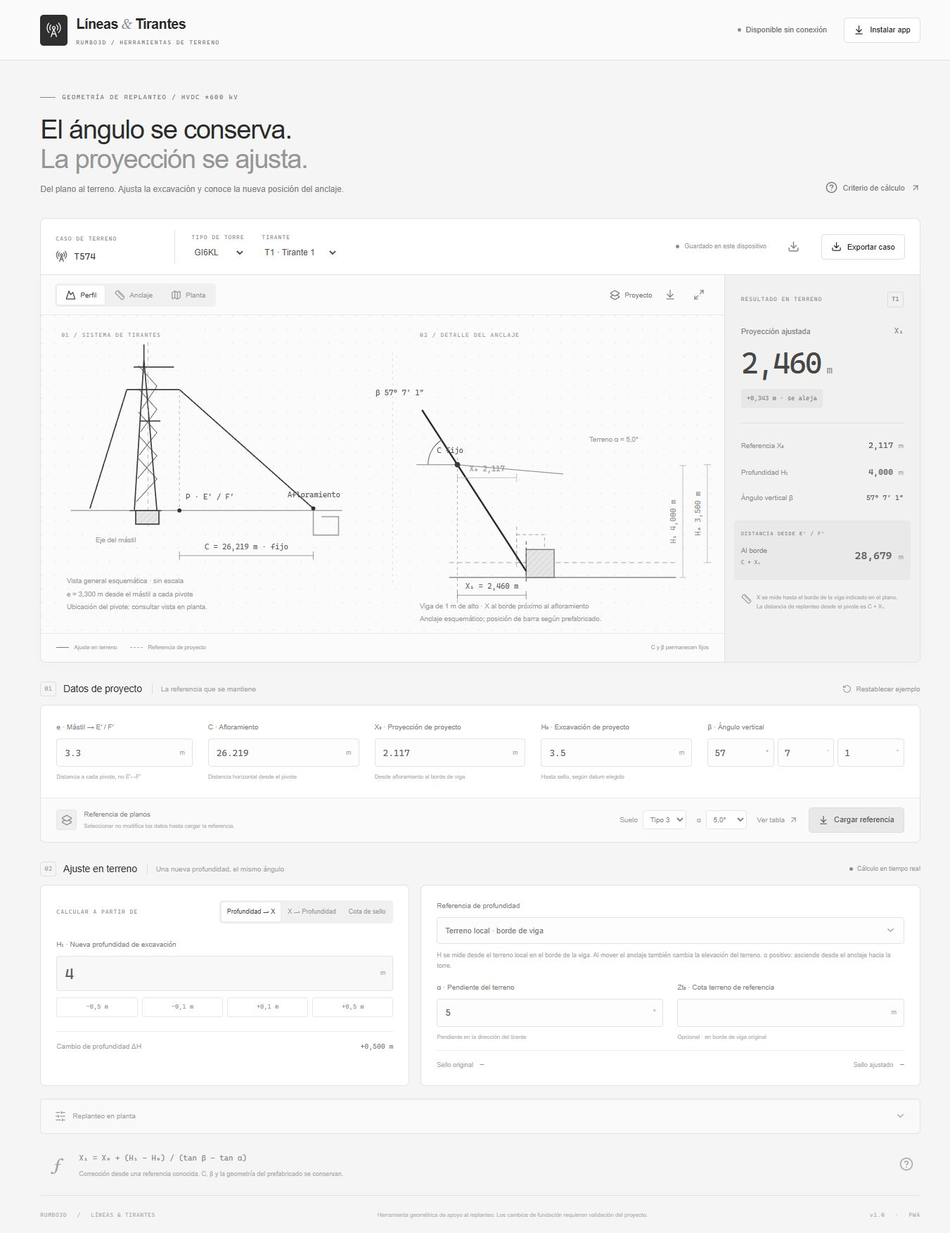
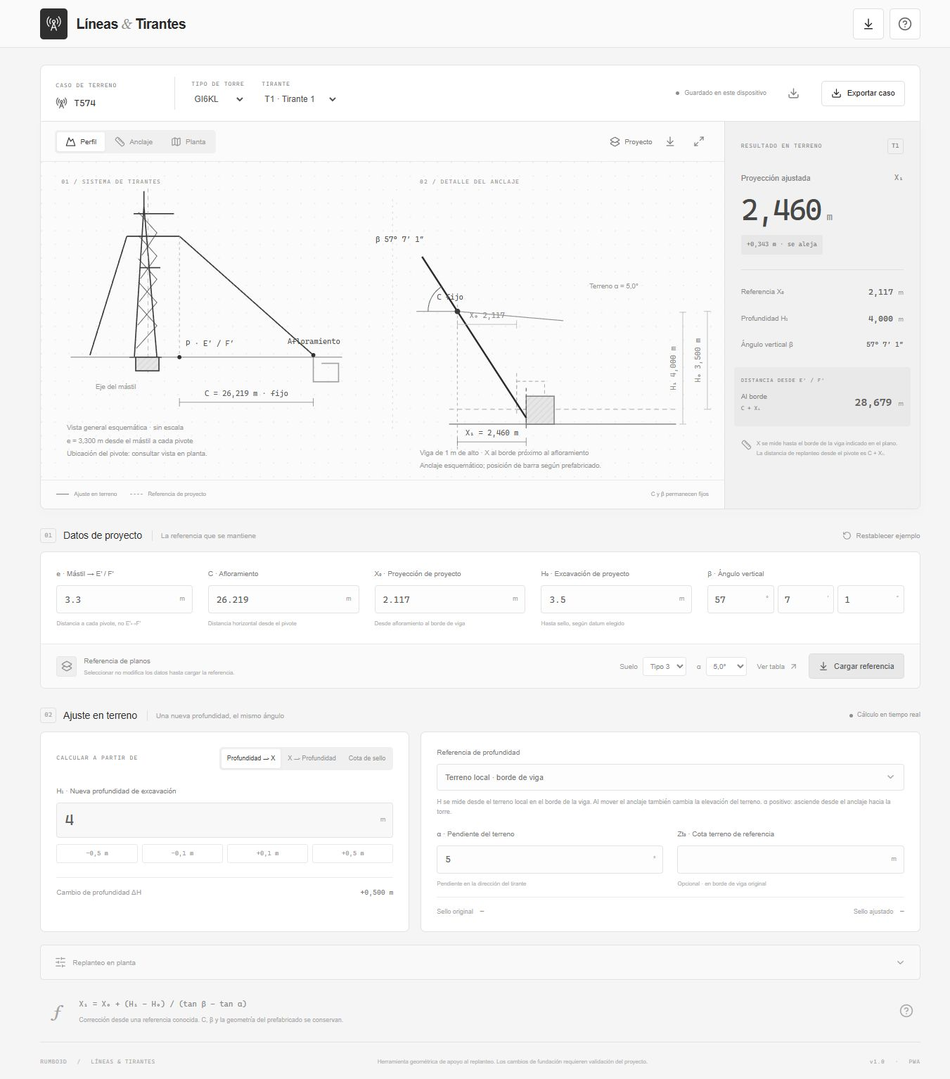
ui: simplify header and add app overview popup

diff --git a/src/app/page.tsx b/src/app/page.tsx
@@ -23,8 +23,9 @@ export default function Home() {
   const [compact,setCompact]=useState(false);
   const [ready,setReady]=useState(false), [storageError,setStorageError]=useState(false);
   const [view,setView]=useState<'profile'|'detail'|'plan'>('profile'), [showReference,setShowReference]=useState(true);
+  const [about,setAbout]=useState(false);
   const [help,setHelp]=useState(false), [table,setTable]=useState(false), [full,setFull]=useState(false);
-  const [offlineReady,setOfflineReady]=useState(false), [offline,setOffline]=useState(false), [pwaError,setPwaError]=useState(false);
+  const [offlineReady,setOfflineReady]=useState(false), [pwaError,setPwaError]=useState(false);
   const [install,setInstall]=useState<InstallEvent|null>(null), [installHelp,setInstallHelp]=useState(false);
   const [notice,setNotice]=useState(''),[referenceApplied,setReferenceApplied]=useState(false);
   const [referenceAlpha,setReferenceAlpha]=useState('5');
@@ -38,7 +39,6 @@ export default function Home() {
     const syncLayout=()=>setCompact(media.matches);syncLayout();
     if(media.matches)setView('detail');
     media.addEventListener('change',syncLayout);
-    const status=()=>setOffline(!navigator.onLine);status();window.addEventListener('online',status);window.addEventListener('offline',status);
     const onInstall=(event:Event)=>{event.preventDefault();setInstall(event as InstallEvent);};window.addEventListener('beforeinstallprompt',onInstall);
     const onInstalled=()=>{setInstall(null);setNotice('Aplicación instalada.');};window.addEventListener('appinstalled',onInstalled);
     if('serviceWorker' in navigator && process.env.NODE_ENV==='production') {
@@ -49,10 +49,10 @@ export default function Home() {
         reg.addEventListener('updatefound',()=>{const worker=reg.installing;worker?.addEventListener('statechange',()=>{if(worker.state==='installed')mark();});});
       }).catch(()=>setPwaError(true));
     }
-    return ()=>{media.removeEventListener('change',syncLayout);window.removeEventListener('online',status);window.removeEventListener('offline',status);window.removeEventListener('beforeinstallprompt',onInstall);window.removeEventListener('appinstalled',onInstalled);};
+    return ()=>{media.removeEventListener('change',syncLayout);window.removeEventListener('beforeinstallprompt',onInstall);window.removeEventListener('appinstalled',onInstalled);};
   },[]);
   useEffect(()=>{if(ready)try{localStorage.setItem(STORAGE,JSON.stringify(input));}catch{setStorageError(true);}},[input,ready]);
-  useEffect(()=>{const escape=(e:KeyboardEvent)=>{if(e.key==='Escape'){setHelp(false);setTable(false);setFull(false);setInstallHelp(false);}};window.addEventListener('keydown',escape);return()=>window.removeEventListener('keydown',escape);},[]);
+  useEffect(()=>{const escape=(e:KeyboardEvent)=>{if(e.key==='Escape'){setAbout(false);setHelp(false);setTable(false);setFull(false);setInstallHelp(false);}};window.addEventListener('keydown',escape);return()=>window.removeEventListener('keydown',escape);},[]);
   function applyReference() {
     const index=ALPHAS.findIndex(a=>a===number(referenceAlpha));
     if(index<0){setNotice('Selecciona una pendiente tabulada para cargar una referencia exacta.');return;}
@@ -79,9 +79,14 @@ export default function Home() {
     download('tirantes-'+view+'.svg',new XMLSerializer().serializeToString(copy),'image/svg+xml');
   }
   return <>
-    <header className="app-header"><a className="brand" href="/" aria-label="Líneas y Tirantes, inicio"><span className="brand-mark"><RadioTower size={23} strokeWidth={1.4}/></span><span>Líneas <span className="brand-amp">&</span> Tirantes<small>RUMBO3D / HERRAMIENTAS DE TERRENO</small></span></a><div className="header-actions"><span className={`connection ${offline?'is-offline':''}`}><span className="status-dot"/>{offline?(offlineReady?'Sin conexión · disponible':'Sin conexión'):offlineReady?'Disponible sin conexión':pwaError?'Caché no disponible':'Preparando modo de campo'}</span><button className="button light install-button" aria-label="Instalar app" onClick={async()=>{if(install){await install.prompt();await install.userChoice;setInstall(null);}else setInstallHelp(true);}}><ArrowDownToLine size={15}/><span>Instalar app</span></button></div></header>
+    <header className="app-header">
+      <a className="brand" href="/" aria-label="Líneas y Tirantes, inicio"><span className="brand-mark"><RadioTower size={23} strokeWidth={1.4}/></span><span>Líneas <span className="brand-amp">&</span> Tirantes</span></a>
+      <div className="header-actions">
+        <button className="button light install-button" aria-label="Instalar app" title="Instalar app" onClick={async()=>{if(install){await install.prompt();await install.userChoice;setInstall(null);}else setInstallHelp(true);}}><ArrowDownToLine size={18}/></button>
+        <button className="icon-button header-help" aria-label="Acerca de la app" title="Acerca de la app" onClick={()=>setAbout(true)}><CircleHelp size={20}/></button>
+      </div>
+    </header>
     <main>
-      <div className="page-heading"><div><div className="eyebrow"><span className="eyebrow-line"/>GEOMETRÍA DE REPLANTEO / HVDC ±600 kV</div><h1>El ángulo se conserva.<br/><span>La proyección se ajusta.</span></h1><p>Del plano al terreno. Ajusta la excavación y conoce la nueva posición del anclaje.</p></div><button className="help-link" onClick={()=>setHelp(true)}><CircleHelp size={17}/>Criterio de cálculo<ArrowUpRight size={14}/></button></div>
       <section className="project-bar" aria-label="Identificación del cálculo"><div className="project-label"><span className="tiny-label">CASO DE TERRENO</span><label className="project-id"><RadioTower size={17}/><input aria-label="Identificación de torre" maxLength={36} value={input.id} onChange={e=>update('id',e.target.value)}/></label></div><label className="project-select"><span className="tiny-label">TIPO DE TORRE</span><select value={input.tower} onChange={e=>update('tower',e.target.value as Tower)}><option>GI6KL</option><option>G6KL</option><option>GR6KL</option></select></label><label className="project-select"><span className="tiny-label">TIRANTE</span><select value={input.guy} onChange={e=>update('guy',e.target.value)}>{[1,2,3,4].map(n=><option key={n} value={n}>{compact?`T${n}`:`T${n} · Tirante ${n}`}</option>)}</select></label><div className="project-actions"><div className="project-spacer"/><span className="local-save"><span className="status-dot"/>{storageError?'Guardado no disponible':ready?'Guardado en este dispositivo':'Cargando sesión'}</span><button className="icon-button" title="Importar caso" aria-label="Importar caso" onClick={()=>fileRef.current?.click()}><Download size={17} className="rotate-180"/></button><input ref={fileRef} className="hidden" type="file" accept=".json,application/json" onChange={e=>importCase(e.target.files?.[0])}/><button className="button light" onClick={exportCase} disabled={!r.valid}><Download size={15}/>Exportar caso</button></div></section>
       <section className={`workspace ${full?'expanded':''}`} aria-label="Visualización y resultados">
         <div className="drawing-panel"><div className="drawing-toolbar"><div className="segmented"><button className={view==='profile'?'active':''} aria-pressed={view==='profile'} onClick={()=>setView('profile')}><Mountain size={15}/>Perfil</button><button className={view==='detail'?'active':''} aria-pressed={view==='detail'} onClick={()=>setView('detail')}><Ruler size={15}/>Anclaje</button><button className={view==='plan'?'active':''} aria-pressed={view==='plan'} onClick={()=>setView('plan')}><Map size={15}/>Planta</button></div><div className="drawing-tools"><button className={`layer-button ${showReference?'selected':''}`} onClick={()=>setShowReference(v=>!v)} aria-label="Mostrar referencia de proyecto" aria-pressed={showReference}><Layers2 size={15}/><span>Proyecto</span></button><button className="icon-button" title="Descargar dibujo SVG" aria-label="Descargar dibujo SVG" onClick={exportSvg} disabled={!r.valid}><ArrowDownToLine size={16}/></button><button className="icon-button" title={full?'Cerrar vista ampliada':'Ampliar dibujo'} aria-label={full?'Cerrar vista ampliada':'Ampliar dibujo'} onClick={()=>setFull(v=>!v)}>{full?<X size={17}/>:<Maximize2 size={16}/>}</button></div></div>
@@ -98,6 +103,6 @@ export default function Home() {
     </main>
     <div className="mobile-result-bar" aria-label="Resultado rápido"><div><span>X₁ · Proyección</span><strong>{r.valid?format(r.x1):'—'} <small>m</small></strong></div><div><span>C + X₁ · Al borde</span><strong>{r.valid?format(r.distance):'—'} <small>m</small></strong></div><a href="#ajuste-terreno" aria-label="Ir al ajuste en terreno"><SlidersHorizontal size={16}/>Ajustar</a></div>
     {notice&&<div className="toast" role="status"><span>{notice}</span><button aria-label="Cerrar aviso" onClick={()=>setNotice('')}><X size={15}/></button></div>}
-    {(help||table||installHelp)&&<div className="modal-backdrop" onClick={()=>{setHelp(false);setTable(false);setInstallHelp(false);}}><section className="modal" role="dialog" aria-modal="true" aria-labelledby="modal-title" onClick={e=>e.stopPropagation()}><button autoFocus className="modal-close icon-button" aria-label="Cerrar diálogo" onClick={()=>{setHelp(false);setTable(false);setInstallHelp(false);}}><X size={20}/></button>{help?<><div className="eyebrow">CRITERIO GEOMÉTRICO</div><h2 id="modal-title">Qué cambia. Qué se conserva.</h2><p>C fija el punto de afloramiento. β es el ángulo del tirante respecto de la horizontal. Al trasladar verticalmente la misma viga conservando β, la posición horizontal debe corregirse.</p><h3>Dos referencias para H</h3><p><strong>Cota fija:</strong> ΔX = ΔH / tan β. Una excavación mayor aumenta X; una menor la reduce. La misma cota de terreno sirve de datum en ambos casos.</p><p><strong>Terreno local:</strong> ΔX = ΔH / (tan β − tan α). El borde de la viga se desplaza hacia terreno de distinta elevación. Esta expresión usa la pendiente con el sentido dibujado en los planos. Si el terreno desciende hacia la torre, ingresa α negativo. Se supone una pendiente constante.</p><p><strong>Cota de sello:</strong> ingresa Zt₀ y la cota objetivo Zs₁. La app obtiene ΔX = (Zs₀ − Zs₁) / tan β y luego H₁ según el datum seleccionado. Esto evita confundir una variación de cota con una profundidad local.</p><h3>Por qué aparece α = 5°</h3><p>La Tabla 1 lo llama «Ángulo de terreno α». Es una fila de pendiente, distinta de β. Para GI6KL a 5°, suelo 3: H = 3,50 m y X = 2,117 m; suelo 4: H = 4,00 m y X = 2,460 m. Con el terreno inclinado, 0,50 m de cambio producen aproximadamente 0,343 m de ajuste.</p><p>Los planos no indican que deba usarse siempre 5°. La selección de esa fila en obra puede responder a la pendiente adoptada o a una instrucción específica; esa razón debe confirmarse con el diseño o la oficina técnica.</p><h3>X y el borde de la viga</h3><p>En la sección del plano, X llega a la cara de la viga próxima al afloramiento. La distancia de replanteo desde E′ o F′ es C + X₁. La planta y las coordenadas locales también usan ese borde como referencia.</p><p>No se usa X = H / tan β como valor absoluto: la viga, la inserción de la barra y la referencia de H introducen desplazamientos. Por eso se parte de X₀ y H₀ conocidos. Cambiar β o α exige una nueva referencia compatible.</p><h3>Alcance de los ejemplos</h3><p>C = 26,219 m y β = 57°07′01″ proceden de la captura del tirante 1 de T574. El plano de GI6KL expresa β = 57,117° (57°07′01,2″); cargar la tabla usa ese valor. e = 3,30 m es un ejemplo según tu indicación; los planos de fundaciones no permiten asignar 3,30/3,40 m por tipo de torre. Verifica e en el diseño correspondiente.</p><p>La captura de C4 muestra 2251,950 bajo «Distancia C4», un valor aparente de cota. No se incorporó como distancia.</p><p className="fineprint">Planos revisados: GI6KL 0005.L0026/L0027 rev. 3, G6KL 0007-L0024/L0025 rev. 3, GR6KL 0008-L0024/L0025 rev. 4. Geometría de fundación; consulta el diseño de tirantes para cada torre.</p></>:table?<><div className="eyebrow">TABLA 1 / DIMENSIONES PARA LOCALIZACIÓN</div><h2 id="modal-title">{input.tower} · Suelo tipo {input.soil}</h2><p>H = {format(cat.h,2)} m · β = {format(CATALOG[input.tower].beta)}°. Valores transcritos del plano, sin interpolación.</p><table><thead><tr><th>Terreno α</th><th>X al borde</th><th>Profundidad H</th></tr></thead><tbody>{ALPHAS.map((a,i)=><tr key={a} className={a===number(referenceAlpha)?'current-row':''}><td>{format(a,1)}°</td><td>{format(cat.x[i])} m</td><td>{format(cat.h,2)} m</td></tr>)}</tbody></table><p className="fineprint">{cat.sheet}<br/>Revisión {cat.revision}</p><button className="button primary" onClick={()=>{applyReference();setTable(false);}}>Cargar fila seleccionada</button></>:<><div className="eyebrow">MODO DE CAMPO</div><h2 id="modal-title">Lleva la app al terreno.</h2><p>En Chrome o Edge, abre el menú del navegador y elige «Instalar aplicación». En iPhone o iPad, abre en Safari, pulsa Compartir y «Añadir a pantalla de inicio».</p><p>Espera a que la cabecera indique «Disponible sin conexión» antes de salir a terreno. Esa indicación confirma que los archivos de esta versión están guardados.</p><p>Los cálculos, tablas y dibujos funcionan localmente. La última sesión se guarda en este dispositivo. Exporta un caso JSON para conservar una copia o moverlo a otro equipo.</p><div className="install-state"><WifiOff size={19}/>{offlineReady?'Esta versión ya está disponible sin conexión.':pwaError?'No se pudo preparar la caché. Vuelve a abrir la app con conexión.':'El modo sin conexión se prepara en la versión de producción servida por HTTPS o localhost.'}</div></>}</section></div>}
+    {(about||help||table||installHelp)&&<div className="modal-backdrop" onClick={()=>{setAbout(false);setHelp(false);setTable(false);setInstallHelp(false);}}><section className="modal" role="dialog" aria-modal="true" aria-labelledby="modal-title" onClick={e=>e.stopPropagation()}><button autoFocus className="modal-close icon-button" aria-label="Cerrar diálogo" onClick={()=>{setAbout(false);setHelp(false);setTable(false);setInstallHelp(false);}}><X size={20}/></button>{about?<><h2 id="modal-title">Líneas &amp; Tirantes</h2><p>Una herramienta de apoyo al replanteo de tirantes de torres atirantadas. Calcula cómo cambia la proyección horizontal al modificar la excavación, manteniendo fijos el afloramiento C y el ángulo vertical β.</p><h3>Cómo funciona</h3><ol className="about-steps"><li>Ingresa las distancias de proyecto y β en grados, minutos y segundos, o carga una referencia de los planos.</li><li>Indica la nueva profundidad, la proyección X₁ o la cota de sello.</li><li>Consulta el esquema y la distancia <strong>C + X₁</strong> desde E′ / F′ hasta el borde de la viga.</li></ol><p>Puedes guardar y exportar casos e instalar la app para trabajar sin conexión después de descargarla.</p><div className="install-state"><WifiOff size={19}/>{offlineReady?'Disponible sin conexión. Esta versión ya está guardada.':pwaError?'No se pudo preparar la descarga. Abre la app con conexión e inténtalo de nuevo.':'Preparando los archivos para usar sin conexión.'}</div><button className="text-button about-details" onClick={()=>{setAbout(false);setHelp(true);}}>Ver fórmulas y referencias<ArrowUpRight size={14}/></button></>:help?<><div className="eyebrow">CRITERIO GEOMÉTRICO</div><h2 id="modal-title">Qué cambia. Qué se conserva.</h2><p>C fija el punto de afloramiento. β es el ángulo del tirante respecto de la horizontal. Al trasladar verticalmente la misma viga conservando β, la posición horizontal debe corregirse.</p><h3>Dos referencias para H</h3><p><strong>Cota fija:</strong> ΔX = ΔH / tan β. Una excavación mayor aumenta X; una menor la reduce. La misma cota de terreno sirve de datum en ambos casos.</p><p><strong>Terreno local:</strong> ΔX = ΔH / (tan β − tan α). El borde de la viga se desplaza hacia terreno de distinta elevación. Esta expresión usa la pendiente con el sentido dibujado en los planos. Si el terreno desciende hacia la torre, ingresa α negativo. Se supone una pendiente constante.</p><p><strong>Cota de sello:</strong> ingresa Zt₀ y la cota objetivo Zs₁. La app obtiene ΔX = (Zs₀ − Zs₁) / tan β y luego H₁ según el datum seleccionado. Esto evita confundir una variación de cota con una profundidad local.</p><h3>Por qué aparece α = 5°</h3><p>La Tabla 1 lo llama «Ángulo de terreno α». Es una fila de pendiente, distinta de β. Para GI6KL a 5°, suelo 3: H = 3,50 m y X = 2,117 m; suelo 4: H = 4,00 m y X = 2,460 m. Con el terreno inclinado, 0,50 m de cambio producen aproximadamente 0,343 m de ajuste.</p><p>Los planos no indican que deba usarse siempre 5°. La selección de esa fila en obra puede responder a la pendiente adoptada o a una instrucción específica; esa razón debe confirmarse con el diseño o la oficina técnica.</p><h3>X y el borde de la viga</h3><p>En la sección del plano, X llega a la cara de la viga próxima al afloramiento. La distancia de replanteo desde E′ o F′ es C + X₁. La planta y las coordenadas locales también usan ese borde como referencia.</p><p>No se usa X = H / tan β como valor absoluto: la viga, la inserción de la barra y la referencia de H introducen desplazamientos. Por eso se parte de X₀ y H₀ conocidos. Cambiar β o α exige una nueva referencia compatible.</p><h3>Alcance de los ejemplos</h3><p>C = 26,219 m y β = 57°07′01″ proceden de la captura del tirante 1 de T574. El plano de GI6KL expresa β = 57,117° (57°07′01,2″); cargar la tabla usa ese valor. e = 3,30 m es un ejemplo según tu indicación; los planos de fundaciones no permiten asignar 3,30/3,40 m por tipo de torre. Verifica e en el diseño correspondiente.</p><p>La captura de C4 muestra 2251,950 bajo «Distancia C4», un valor aparente de cota. No se incorporó como distancia.</p><p className="fineprint">Planos revisados: GI6KL 0005.L0026/L0027 rev. 3, G6KL 0007-L0024/L0025 rev. 3, GR6KL 0008-L0024/L0025 rev. 4. Geometría de fundación; consulta el diseño de tirantes para cada torre.</p></>:table?<><div className="eyebrow">TABLA 1 / DIMENSIONES PARA LOCALIZACIÓN</div><h2 id="modal-title">{input.tower} · Suelo tipo {input.soil}</h2><p>H = {format(cat.h,2)} m · β = {format(CATALOG[input.tower].beta)}°. Valores transcritos del plano, sin interpolación.</p><table><thead><tr><th>Terreno α</th><th>X al borde</th><th>Profundidad H</th></tr></thead><tbody>{ALPHAS.map((a,i)=><tr key={a} className={a===number(referenceAlpha)?'current-row':''}><td>{format(a,1)}°</td><td>{format(cat.x[i])} m</td><td>{format(cat.h,2)} m</td></tr>)}</tbody></table><p className="fineprint">{cat.sheet}<br/>Revisión {cat.revision}</p><button className="button primary" onClick={()=>{applyReference();setTable(false);}}>Cargar fila seleccionada</button></>:<><div className="eyebrow">MODO DE CAMPO</div><h2 id="modal-title">Lleva la app al terreno.</h2><p>En Chrome o Edge, abre el menú del navegador y elige «Instalar aplicación». En iPhone o iPad, abre en Safari, pulsa Compartir y «Añadir a pantalla de inicio».</p><p>Antes de salir a terreno, consulta el estado de descarga en la ayuda (?). «Disponible sin conexión» confirma que los archivos de esta versión están guardados.</p><p>Los cálculos, tablas y dibujos funcionan localmente. La última sesión se guarda en este dispositivo. Exporta un caso JSON para conservar una copia o moverlo a otro equipo.</p><div className="install-state"><WifiOff size={19}/>{offlineReady?'Esta versión ya está disponible sin conexión.':pwaError?'No se pudo preparar la caché. Vuelve a abrir la app con conexión.':'El modo sin conexión se prepara en la versión de producción servida por HTTPS o localhost.'}</div></>}</section></div>}
   </>;
 }

diff --git a/src/app/globals.css b/src/app/globals.css
@@ -2,8 +2,8 @@
 
 :root{--bg:#f5f5f5;--paper:#ffffff;--ink:#2b2b2b;--muted:#858585;--border:#e2e2e2;--olive:#6f6f6f;--soft:#ebebeb;--mono:'Cascadia Code','SFMono-Regular',Consolas,monospace}
 *{box-sizing:border-box}body{margin:0;background:var(--bg);color:var(--ink);font-family:Arial,Helvetica,sans-serif;font-size:14px;-webkit-font-smoothing:antialiased}button,input,select{font:inherit}button,a,input,select,summary{-webkit-tap-highlight-color:transparent}button,select,summary{cursor:pointer}button{transition:background .15s,color .15s}button:disabled{opacity:.4;cursor:not-allowed}button:focus-visible,a:focus-visible,summary:focus-visible{outline:2px solid #838383;outline-offset:4px}input:focus,select:focus{outline:2px solid #a8a8a8;outline-offset:2px}a{color:inherit;text-decoration:none}button{border:0;background:none;color:inherit}svg{flex-shrink:0}.hidden{display:none}.rotate-180{transform:rotate(180deg)}
-.app-header{height:86px;border-bottom:1px solid var(--border);display:flex;align-items:center;justify-content:space-between;padding:0 4.2%;background:#fafafa}.brand{display:flex;align-items:center;gap:12px;font-size:20px;font-weight:600;letter-spacing:-.6px}.brand-mark{width:39px;height:44px;display:grid;place-items:center;background:#2f2f2f;color:#f6f6f6;border-radius:5px}.brand-amp{font-family:Georgia,serif;color:#8f8f8f;font-style:italic;font-weight:400}.brand small{display:block;font-family:var(--mono);font-size:8px;font-weight:400;letter-spacing:1.5px;margin-top:6px;color:#747474}.header-actions{display:flex;align-items:center;gap:24px}.connection{display:flex;align-items:center;gap:7px;font-size:11px;color:#6f6f6f}.status-dot{display:inline-block;width:5px;height:5px;border-radius:50%;background:#8c8c8c}.is-offline{color:#6f6f6f}.button{display:inline-flex;align-items:center;justify-content:center;gap:8px;min-height:36px;padding:8px 13px;border-radius:5px;font-size:11px;white-space:nowrap;font-weight:500}.button.light{border:1px solid #dfdfdf;background:#ffffff}.button.light:hover{background:#f2f2f2}.button.secondary{background:#e8e8e8;color:#565656;border:1px solid #dcdcdc}.button.secondary:hover{background:#e2e2e2}.button.primary{background:#363636;color:white}.icon-button{display:inline-flex;align-items:center;justify-content:center;width:32px;height:32px;border-radius:4px;color:#828282}.icon-button:hover{background:#efefef;color:#2f2f2f}
-main{max-width:1500px;padding:46px 4.2% 0;margin:auto}.page-heading{display:flex;justify-content:space-between;align-items:flex-end;margin-bottom:31px}.eyebrow{display:flex;align-items:center;gap:9px;font-family:var(--mono);font-size:9px;letter-spacing:1.5px;color:#757575}.eyebrow-line{width:22px;height:1px;background:#868686}h1{font-size:clamp(29px,2.8vw,40px);line-height:1.12;letter-spacing:-1.35px;font-weight:500;margin:17px 0 12px}h1 span{color:#969696}.page-heading p{color:#818181;font-size:12px;line-height:1.6;margin:0}.help-link{display:flex;align-items:center;gap:8px;color:#787878;font-size:11px;padding-bottom:4px}.help-link:hover{color:#363636}.project-bar{display:flex;align-items:center;gap:23px;min-height:80px;border:1px solid var(--border);border-bottom:0;border-radius:8px 8px 0 0;background:#ffffff;padding:14px 21px}.tiny-label{font-family:var(--mono);font-size:8px;letter-spacing:1.1px;color:#8f8f8f}.project-label{width:170px;border-right:1px solid var(--border)}.project-id{display:flex;align-items:center;gap:9px;margin-top:7px;color:#6d6d6d}.project-id input{width:130px;border:0;color:#373737;font-family:var(--mono);font-size:13px;outline-offset:1px}.project-select{display:flex;flex-direction:column;gap:5px}.project-select select{border:0;background:transparent;padding:0 17px 0 0;color:#535353;font-size:12px;min-height:20px}.project-spacer{flex:1}.local-save{display:flex;align-items:center;gap:7px;font-size:9px;color:#9a9a9a;white-space:nowrap}
+.app-header{height:68px;border-bottom:1px solid var(--border);display:flex;align-items:center;justify-content:space-between;padding:0 4.2%;background:#fafafa}.brand{display:flex;align-items:center;gap:12px;font-size:20px;font-weight:600;letter-spacing:-.6px}.brand-mark{width:39px;height:44px;display:grid;place-items:center;background:#2f2f2f;color:#f6f6f6;border-radius:5px}.brand-amp{font-family:Georgia,serif;color:#8f8f8f;font-style:italic;font-weight:400}.brand small{display:block;font-family:var(--mono);font-size:8px;font-weight:400;letter-spacing:1.5px;margin-top:6px;color:#747474}.header-actions{display:flex;align-items:center;gap:8px}.connection{display:flex;align-items:center;gap:7px;font-size:11px;color:#6f6f6f}.status-dot{display:inline-block;width:5px;height:5px;border-radius:50%;background:#8c8c8c}.is-offline{color:#6f6f6f}.button{display:inline-flex;align-items:center;justify-content:center;gap:8px;min-height:36px;padding:8px 13px;border-radius:5px;font-size:11px;white-space:nowrap;font-weight:500}.button.light{border:1px solid #dfdfdf;background:#ffffff}.button.light:hover{background:#f2f2f2}.button.secondary{background:#e8e8e8;color:#565656;border:1px solid #dcdcdc}.button.secondary:hover{background:#e2e2e2}.button.primary{background:#363636;color:white}.icon-button{display:inline-flex;align-items:center;justify-content:center;width:32px;height:32px;border-radius:4px;color:#828282}.icon-button:hover{background:#efefef;color:#2f2f2f}
+main{max-width:1500px;padding:24px 4.2% 0;margin:auto}.page-heading{display:flex;justify-content:space-between;align-items:flex-end;margin-bottom:31px}.eyebrow{display:flex;align-items:center;gap:9px;font-family:var(--mono);font-size:9px;letter-spacing:1.5px;color:#757575}.eyebrow-line{width:22px;height:1px;background:#868686}h1{font-size:clamp(29px,2.8vw,40px);line-height:1.12;letter-spacing:-1.35px;font-weight:500;margin:17px 0 12px}h1 span{color:#969696}.page-heading p{color:#818181;font-size:12px;line-height:1.6;margin:0}.help-link{display:flex;align-items:center;gap:8px;color:#787878;font-size:11px;padding-bottom:4px}.help-link:hover{color:#363636}.project-bar{display:flex;align-items:center;gap:23px;min-height:80px;border:1px solid var(--border);border-bottom:0;border-radius:8px 8px 0 0;background:#ffffff;padding:14px 21px}.tiny-label{font-family:var(--mono);font-size:8px;letter-spacing:1.1px;color:#8f8f8f}.project-label{width:170px;border-right:1px solid var(--border)}.project-id{display:flex;align-items:center;gap:9px;margin-top:7px;color:#6d6d6d}.project-id input{width:130px;border:0;color:#373737;font-family:var(--mono);font-size:13px;outline-offset:1px}.project-select{display:flex;flex-direction:column;gap:5px}.project-select select{border:0;background:transparent;padding:0 17px 0 0;color:#535353;font-size:12px;min-height:20px}.project-spacer{flex:1}.local-save{display:flex;align-items:center;gap:7px;font-size:9px;color:#9a9a9a;white-space:nowrap}
 .workspace{display:grid;grid-template-columns:minmax(0,1fr) 278px;min-height:440px;border:1px solid var(--border);background:#fbfbfb;border-radius:0 0 8px 8px;overflow:hidden;box-shadow:0 5px 14px #49494904}.drawing-panel{min-width:0;display:flex;flex-direction:column}.drawing-toolbar{height:57px;padding:13px 20px;display:flex;justify-content:space-between;align-items:center;border-bottom:1px solid #e9e9e9;background:#fbfbfb}.segmented{display:inline-flex;background:#f0f0f0;padding:3px;border-radius:5px;gap:2px}.segmented button{display:inline-flex;gap:6px;align-items:center;justify-content:center;min-height:27px;padding:5px 12px;font-size:10px;color:#969696;border-radius:3px;white-space:nowrap}.segmented button.active{color:#404040;background:#ffffff;box-shadow:0 1px 4px #40404010}.drawing-tools{display:flex;align-items:center;gap:9px}.layer-button{display:flex;align-items:center;gap:6px;color:#a9a9a9;font-size:10px}.layer-button.selected{color:#787878}.diagram-canvas{flex:1;min-height:290px;display:grid;align-items:center;overflow:hidden}.technical-svg{width:100%;height:auto;display:block}.technical-svg text{font-family:var(--mono);fill:#575757;font-size:11px}.technical-svg .svg-kicker{font-size:8px;letter-spacing:1.4px;fill:#a0a0a0}.technical-svg .svg-muted{font-family:Arial,sans-serif;font-size:10px;fill:#989898}.technical-svg .svg-label{font-size:11px}.dimension{fill:none;stroke:#b0b0b0;stroke-width:.8}.dimension text{stroke:none;fill:#919191;font-size:11px}.dimension.strong text{fill:#5c5c5c}.dimension.strong{stroke:#7e7e7e}.ref-foundation{fill:none;stroke:#b3b3b3;stroke-dasharray:5 4}.foundation{stroke:#616161}.selected-guy{stroke:#5d5d5d;fill:#5d5d5d}.other-guy{stroke:#b7b7b7;fill:#b7b7b7}.drawing-caption{display:flex;align-items:center;justify-content:space-between;gap:14px;padding:14px 22px;border-top:1px solid #e9e9e9;font-size:8px;color:#979797}.drawing-caption>div{display:flex;align-items:center;gap:7px;white-space:nowrap}.legend-line{width:18px;height:1px;background:#7b7b7b;display:inline-block}.legend-line.dashed{height:0;border-top:1px dashed #acacac;background:none;margin-left:12px}.invalid-drawing{text-align:center;color:#9a9a9a;padding:80px 20px}.invalid-drawing svg{margin:auto}.expanded{position:fixed;inset:20px;z-index:40;box-shadow:0 0 0 30px #262626e0;grid-template-columns:minmax(0,1fr) 278px}.expanded .diagram-canvas svg{max-height:calc(100dvh - 180px)}
 .results{background:#f1f1f1;border-left:1px solid #e0e0e0;padding:24px 23px 17px;display:flex;flex-direction:column}.results-kicker{display:flex;justify-content:space-between;align-items:center;margin-bottom:26px}.result-tag{font-family:var(--mono);color:#818181;border:1px solid #dcdcdc;border-radius:3px;padding:3px 5px;font-size:9px}.result-label{font-size:11px;color:#848484;display:flex;justify-content:space-between}.result-label>span{font-family:var(--mono);font-size:11px}.hero-result{font-family:var(--mono);font-size:43px;line-height:1.15;letter-spacing:-2.5px;color:#474747;margin:13px 0 11px}.hero-result>span{font-size:15px;margin-left:8px;letter-spacing:0;color:#939393}.delta-pill{font-family:var(--mono);font-size:9px;padding:7px 8px;background:#e7e7e7;color:#7c7c7c;border-radius:3px;align-self:flex-start}.result-divider{border-top:1px solid #e0e0e0;margin:21px 0 12px}.result-row{display:flex;align-items:center;justify-content:space-between;gap:8px;margin:10px 0;font-size:10px;color:#8e8e8e}.result-row strong{font-family:var(--mono);font-size:12px;font-weight:500;color:#656565;white-space:nowrap}.result-row strong small{font-family:Arial,sans-serif;font-size:9px;color:#9a9a9a}.result-row .angle-result{font-size:10px}.stakeout{margin:15px -10px 8px;padding:14px 10px 9px;background:#e9e9e9;border-radius:4px}.stakeout .tiny-label{font-size:7px;color:#868686}.stakeout .result-row{color:#848484}.result-row>span small{display:block;margin-top:4px;font-family:var(--mono);font-size:8px}.stakeout .result-row strong{font-size:15px;color:#606060}.result-note{display:flex;align-items:flex-start;gap:7px;font-size:8px;line-height:1.65;color:#9f9f9f;margin:10px 0 0}.result-note svg{margin-top:1px}
 .data-section{margin-top:27px}.section-heading{display:flex;justify-content:space-between;align-items:center;margin-bottom:12px;gap:10px}.section-heading>div{display:flex;align-items:center;gap:10px}.section-number{font-family:var(--mono);font-size:9px;color:#a4a4a4;border:1px solid #dfdfdf;border-radius:4px;padding:3px 5px}h2{font-size:14px;font-weight:500;margin:0;letter-spacing:-.1px}.section-subtitle{font-size:10px;color:#a4a4a4;border-left:1px solid #dedede;padding-left:12px;margin-left:4px}.text-button{font-size:10px;color:#999999;display:flex;align-items:center;gap:6px;white-space:nowrap}.text-button:hover{color:#5f5f5f}.data-card,.adjust-card,.datum-card{background:#ffffff;border:1px solid var(--border);border-radius:7px}.fields-grid{display:grid;grid-template-columns:.9fr 1fr 1fr 1fr 1.3fr;gap:22px;padding:23px 22px}.field{display:flex;flex-direction:column;gap:9px;min-width:0}.field-label{font-size:10px;color:#808080;display:block}.input-wrap{display:flex;align-items:center;min-width:0;position:relative;border:1px solid #e3e3e3;border-radius:4px;background:#fdfdfd;overflow:visible}.input-wrap input{min-width:0;width:100%;height:38px;padding:8px 30px 8px 11px;background:transparent;border:0;border-radius:4px;font-family:var(--mono);font-size:13px;color:#606060}.input-wrap>span{position:absolute;right:10px;font-size:9px;color:#a8a8a8;pointer-events:none}.field-hint{font-size:8px;line-height:1.4;color:#ababab}.angle-field{margin:0;padding:0;border:0;min-width:0}.angle-field legend{margin-bottom:9px}.dms-grid{display:grid;grid-template-columns:1fr .85fr 1fr;gap:5px}.dms-grid .input-wrap input{padding-right:19px;padding-left:9px}.dms-grid .input-wrap>span{right:7px}.reference-strip{display:flex;align-items:center;gap:15px;background:#fafafa;border-top:1px solid #eaeaea;padding:13px 22px;border-radius:0 0 7px 7px}.reference-strip>div{display:flex;align-items:center;gap:10px;margin-right:auto}.reference-icon{width:29px;height:29px;display:grid;place-items:center;background:#efefef;border:1px solid #e6e6e6;border-radius:4px;color:#8e8e8e}.reference-strip strong{font-weight:400;font-size:10px;color:#888888;display:block}.reference-strip small{display:block;font-size:8px;color:#ababab;margin-top:4px}.reference-strip>label{font-size:10px;color:#9b9b9b;display:flex;align-items:center;gap:7px}.reference-strip select{font-size:10px;color:#858585;padding:6px;border:1px solid #e5e5e5;border-radius:4px;background:#ffffff}.live-label{font-size:9px;display:flex;align-items:center;gap:6px;color:#9b9b9b}.adjust-grid{display:grid;grid-template-columns:.85fr 1.15fr;gap:16px}.adjust-card{padding:21px 22px}.adjust-mode{display:flex;align-items:center;justify-content:space-between;gap:10px;margin-bottom:22px}.adjust-mode .segmented button{font-size:9px;padding:5px 8px}.adjust-card .field .input-wrap input{height:48px;font-size:22px}.adjust-card .field .input-wrap{background:#f8f8f8}.depth-controls{display:flex;gap:6px;margin-top:9px}.depth-controls button{font-family:var(--mono);font-size:9px;color:#999999;border:1px solid #e8e8e8;border-radius:3px;padding:6px 9px;flex:1}.depth-controls button:hover{background:#ededed;color:#696969}.adjust-output{border-top:1px solid #ebebeb;margin-top:20px;padding-top:13px;display:flex;justify-content:space-between;font-size:10px;color:#9d9d9d}.adjust-output strong{font-family:var(--mono);font-weight:400;color:#7d7d7d}.datum-card{padding:21px 22px}.select-wrap{position:relative;margin-top:9px}.select-wrap select{width:100%;appearance:none;background:#fdfdfd;border:1px solid #e3e3e3;border-radius:4px;height:38px;padding:8px 30px 8px 11px;font-size:11px;color:#797979}.select-wrap svg{position:absolute;right:12px;top:11px;pointer-events:none;color:#9e9e9e}.datum-help{font-size:9px;color:#a9a9a9;line-height:1.6;margin:9px 0 16px}.two-fields{display:grid;grid-template-columns:1fr 1fr;gap:20px}.seal-results{display:flex;justify-content:space-between;border-top:1px solid #ebebeb;margin-top:13px;padding-top:12px;gap:15px;font-size:9px;color:#a9a9a9}.seal-results strong{color:#8b8b8b;font-family:var(--mono);font-size:10px;font-weight:400;margin-left:7px}
@@ -23,12 +23,11 @@ button,a,select,summary{touch-action:manipulation}
 /* Field use on phones and tablets: readable type, 44 px targets, no horizontal canvas panning. */
 @media(max-width:800px){
   body{padding-bottom:calc(86px + env(safe-area-inset-bottom,0px))}
-  .app-header{height:auto;min-height:72px;padding:calc(10px + env(safe-area-inset-top,0px)) max(16px,env(safe-area-inset-right,0px)) 10px max(16px,env(safe-area-inset-left,0px));gap:12px}
+  .app-header{height:auto;min-height:64px;padding:calc(10px + env(safe-area-inset-top,0px)) max(16px,env(safe-area-inset-right,0px)) 10px max(16px,env(safe-area-inset-left,0px));gap:12px}
   .brand{font-size:17px;gap:8px;letter-spacing:-.5px;min-height:44px;flex-shrink:0}
   .brand>span:last-child{white-space:nowrap}
   .brand-mark{width:34px;height:40px}
   .brand small{display:none}
-  .brand>span:last-child::after{content:"RUMBO3D · TERRENO";display:block;font-family:var(--mono);font-weight:400;font-size:8px;letter-spacing:1px;line-height:1.4;color:#737373;margin-top:4px}
   .header-actions{gap:8px}
   .connection{font-size:10px;line-height:1.5;max-width:96px}
   .install-button{width:44px;min-width:44px;flex-shrink:0;min-height:44px;padding:10px}
@@ -228,3 +227,10 @@ button,a,select,summary{touch-action:manipulation}
   .app-header,.page-heading,.data-section,.advanced,.formula-band,.toast,.modal-backdrop,.drawing-tools,.header-actions,.project-bar button,.mobile-result-bar{display:none}
   main{padding:0;max-width:none}.workspace{grid-template-columns:1fr 240px}.diagram-canvas{overflow:visible}.technical-svg{min-width:0}.results{display:flex}.project-bar{border-bottom:1px solid #ddd}
 }
+
+.install-button,.header-help{width:44px;min-width:44px;height:44px;min-height:44px;padding:10px;flex-shrink:0}
+.header-help{border:1px solid #dfdfdf;background:#fff;color:#666;border-radius:5px}
+.about-steps{list-style:decimal;padding-left:22px;margin:12px 0 20px;font-size:13px;line-height:1.8;color:#6b6b6b}
+.about-steps li+li{margin-top:9px}
+.about-details{margin-top:14px;min-height:44px;font-size:12px;color:#555;justify-content:flex-start}
+@media(max-width:800px){.about-steps{font-size:14px;line-height:1.8}.header-actions{gap:6px}}

diff --git a/docs/VALIDACION.md b/docs/VALIDACION.md
@@ -10,6 +10,7 @@ Comprobado en el entorno local del proyecto:
 - Diseño prioritario para smartphone: verificado en anchos de 360, 393 y 430 px; revisión adicional en 768 px y laptop de 1366 px. Sin desbordamiento horizontal de la página o del dibujo.
 - Controles móviles de al menos 44 × 44 px, campos de 16 px o más, anclaje adaptado al ancho y barra inferior con X₁ / C + X₁.
 - Acceso «Ajustar» y botones de profundidad comprobados: el resultado principal y la barra inferior se actualizan juntos.
+- Cabecera reducida a icono, nombre, instalar y ayuda. Resumen emergente de la app comprobado en móvil; el estado offline se consulta dentro de la ayuda.
 - Prueba offline real del paquete: servidor HTTP detenido, fallo de conexión confirmado desde fuera del navegador, recarga correcta desde service worker y cálculo de profundidad → X / X → profundidad sin servidor.
 - Entrada por cota de sello: Zt₀ = 100 m, Zs₁ = 96 m devuelve X₁ = 2,440 m, H₁ local = 3,972 m y H₁ con datum fijo = 4,000 m.
 - En el ejemplo, H₁ = 3,50 m devuelve X₁ = 2,117 m. La operación inversa con X₁ redondeada a 2,460 m devuelve H₁ = 4,001 m; la diferencia milimétrica es consecuencia del redondeo de la referencia.

diff --git a/README.md b/README.md
@@ -77,7 +77,7 @@ La interfaz prioriza smartphones: anclaje adaptado al ancho de pantalla, botones
 Perfil, anclaje y planta caben en el ancho móvil. La planta muestra sus coordenadas en casillas legibles debajo del dibujo. En laptop se conserva el dibujo con resultados laterales. Los cálculos continúan usando exclusivamente el borde de la viga.
 
 1. Abrir la app con conexión desde **el dominio que se usará en campo**.
-2. Esperar la indicación **Disponible sin conexión**. Se muestra después de guardar todos los archivos de la versión.
+2. Abrir la ayuda **(?)** y esperar la indicación **Disponible sin conexión**. Se muestra después de guardar todos los archivos de la versión.
 3. Instalar desde Chrome/Edge o, en Safari para iOS, Compartir → Añadir a pantalla de inicio.
 4. Probar una apertura y un cambio de profundidad en modo avión antes de salir.
 5. Completar C, β, e y φ del tirante específico. Los valores iniciales son un ejemplo T574, no una asignación automática por tipo de torre.
